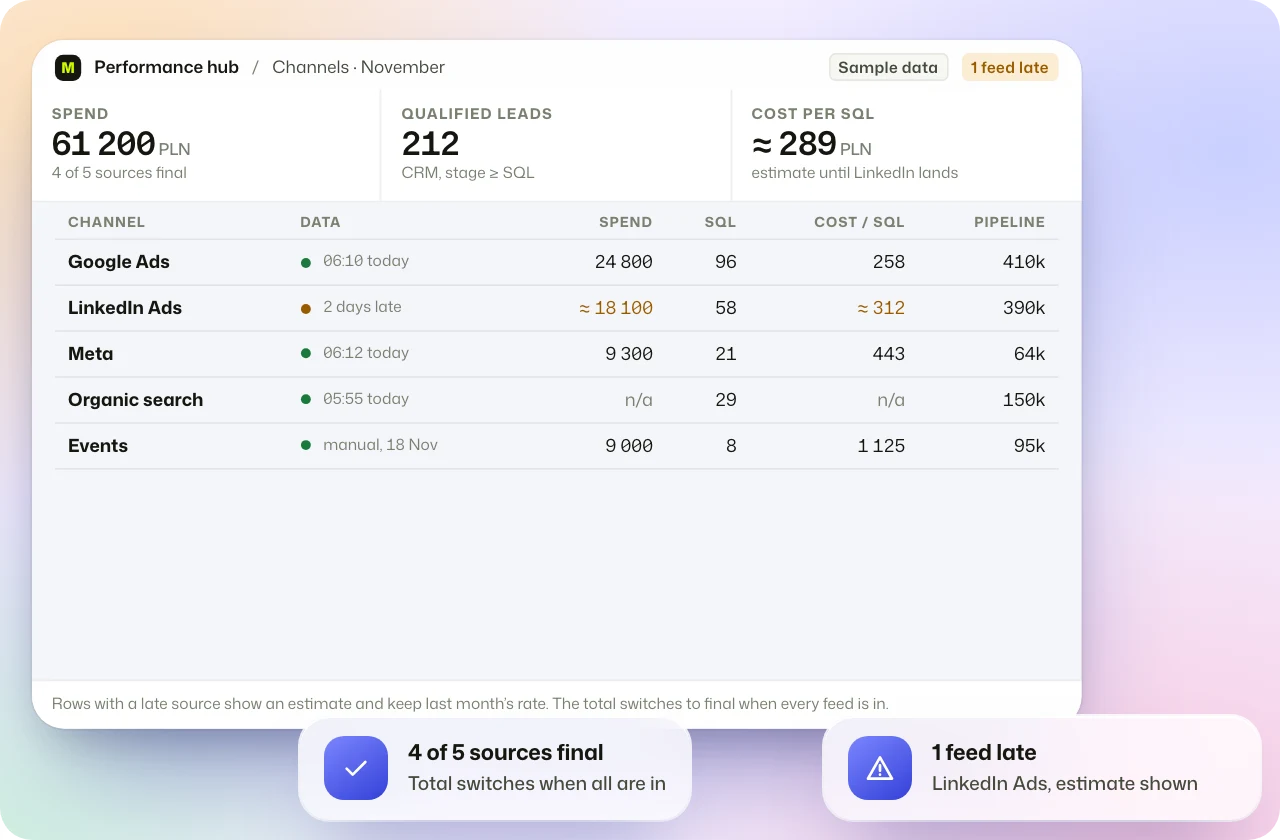
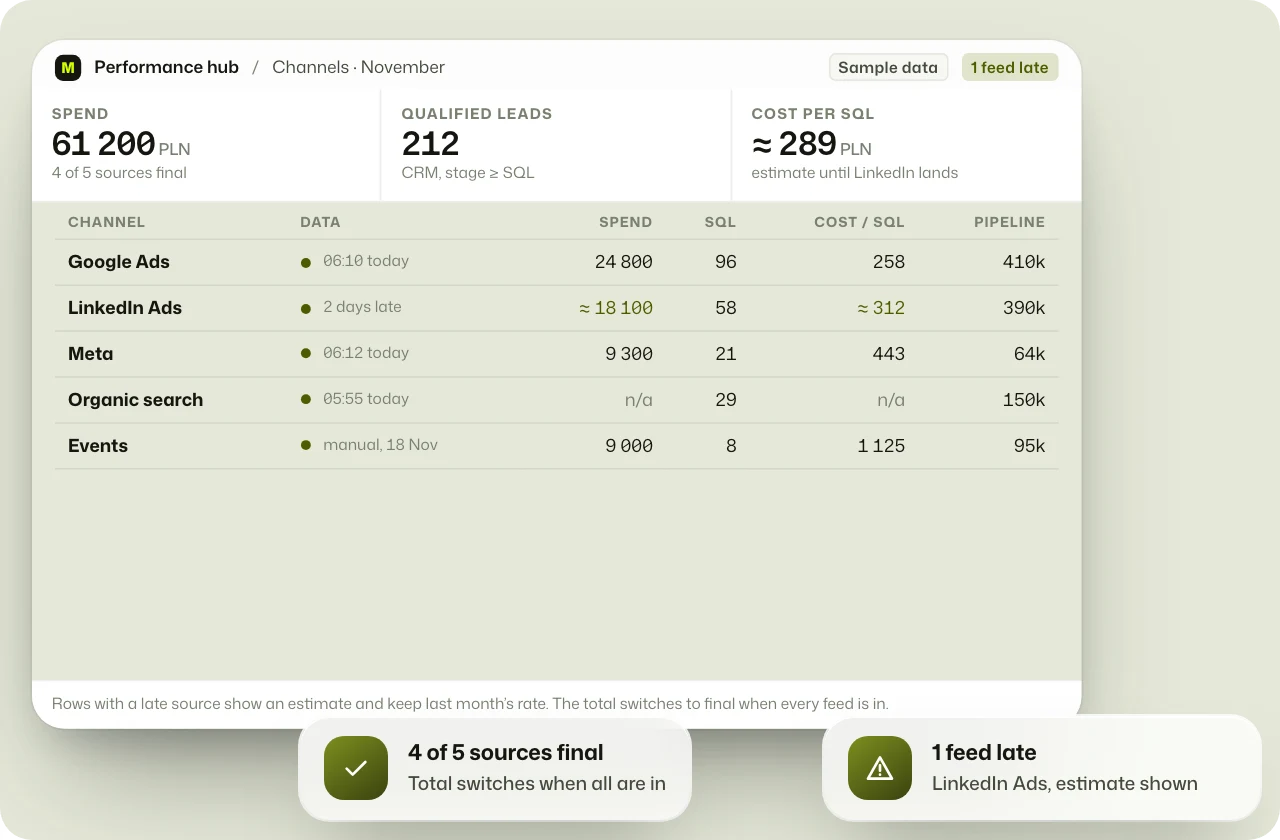
style(revolution): one palette on lens pages and flat grounds on app screens
Cream, olive and lime only. Navy, teal and green sections and the per-page
accents become the site olive family. Screens are re-rendered on a flat ground
with one accent, and the glass cards, ring and note colours follow.

diff --git a/public/revolution/assets/lens/marketing.css b/public/revolution/assets/lens/marketing.css
@@ -5,11 +5,11 @@
 .eyebrow.mk-e{display:block;margin-bottom:18px}
 
 /* point of view: lime, black type, one decision strip */
-.mk-pov{padding:clamp(64px,8vw,120px) 0;background:#D2FF00;color:#10200b;--on:16 32 11;--lt:#10200b}
-.mk-pov .eyebrow{display:block;margin-bottom:22px;color:#10200b}
+.mk-pov{padding:clamp(64px,8vw,120px) 0;background:#D2FF00;color:#1C1F16;--on:16 32 11;--lt:#1C1F16}
+.mk-pov .eyebrow{display:block;margin-bottom:22px;color:#1C1F16}
 .mk-pov q{display:block;quotes:none;max-width:16em;font:800 clamp(36px,6vw,92px)/.98 var(--sans);font-stretch:75%;text-transform:uppercase;letter-spacing:-.01em}
 .mk-pov__by{margin-top:22px;font:600 12px/1 var(--sans);letter-spacing:.06em;text-transform:uppercase;opacity:.7}
-.mk-dec{list-style:none;margin:clamp(36px,5vw,64px) 0 0;padding:0;display:grid;grid-template-columns:repeat(3,minmax(0,1fr));gap:0;border-top:2px solid #10200b}
+.mk-dec{list-style:none;margin:clamp(36px,5vw,64px) 0 0;padding:0;display:grid;grid-template-columns:repeat(3,minmax(0,1fr));gap:0;border-top:2px solid #1C1F16}
 .mk-dec li{padding:18px 22px 0 0;margin-right:22px;border-right:1px solid rgba(16,32,11,.28);font:500 16px/1.4 var(--sans)}
 .mk-dec li:last-child{border-right:0;margin-right:0}
 .mk-dec b{display:block;margin-bottom:6px;font:800 clamp(20px,2vw,28px)/1.05 var(--sans);font-stretch:75%;text-transform:uppercase}
@@ -17,7 +17,7 @@
 @media (max-width:900px){.mk-dec{grid-template-columns:1fr}.mk-dec li{border-right:0;margin:0;padding:16px 0;border-bottom:1px solid rgba(16,32,11,.28)}}
 
 /* what I build: a sticky list on the left, the work on the right */
-.mk-bd{padding:clamp(72px,9vw,128px) 0;background:#093f47;--on:244 244 237;--lt:#D2FF00;--lo:#C9E23A;color:#F4F4ED}
+.mk-bd{padding:clamp(72px,9vw,128px) 0;background:#282C20;--on:244 244 237;--lt:#D2FF00;--lo:#C9E23A;color:#F4F4ED}
 .mk-bd__g{display:grid;grid-template-columns:minmax(0,.7fr) minmax(0,1.3fr);gap:clamp(32px,6vw,96px);align-items:start}
 .mk-bd__l{position:sticky;top:96px}
 .mk-bd .eyebrow{display:block;margin-bottom:18px;color:#D2FF00}
@@ -40,35 +40,35 @@
 @media (max-width:900px){.mk-bd__g{grid-template-columns:1fr}.mk-bd__l{position:static}}
 
 /* case: five layers as a stack */
-.mk-cs{padding:clamp(72px,9vw,128px) 0;background:#F4F4ED;color:#103e44}
-.mk-cs .eyebrow{display:block;margin-bottom:18px;color:#0b5a64}
-.mk-cs h2{margin:0;max-width:14em;font-size:clamp(34px,4.4vw,64px);line-height:.95;color:#103e44}
+.mk-cs{padding:clamp(72px,9vw,128px) 0;background:#F4F4ED;color:#282C20}
+.mk-cs .eyebrow{display:block;margin-bottom:18px;color:#3B3C38}
+.mk-cs h2{margin:0;max-width:14em;font-size:clamp(34px,4.4vw,64px);line-height:.95;color:#282C20}
 .mk-cs__lede{max-width:34em;margin-top:18px;font:400 18px/1.5 var(--sans);color:rgba(16,62,68,.82)}
 .mk-cs__g{display:grid;grid-template-columns:minmax(0,1.25fr) minmax(0,.75fr);gap:clamp(28px,5vw,80px);margin-top:clamp(36px,5vw,64px);align-items:start}
 .mk-ly{list-style:none;margin:0;padding:0;display:grid;gap:8px}
-.mk-ly li{display:flex;align-items:baseline;gap:18px;padding:18px 22px;border-radius:12px;background:#0f5f69;color:#F4F4ED;margin-left:calc(var(--i)*clamp(0px,3.4vw,44px))}
-.mk-ly li:nth-child(odd){background:#0b4b54}
+.mk-ly li{display:flex;align-items:baseline;gap:18px;padding:18px 22px;border-radius:12px;background:#3B3C38;color:#F4F4ED;margin-left:calc(var(--i)*clamp(0px,3.4vw,44px))}
+.mk-ly li:nth-child(odd){background:#3B3C38}
 .mk-ly i{font:600 12px/1 var(--sans);font-style:normal;letter-spacing:.06em;color:#D2FF00}
 .mk-ly b{font:800 clamp(20px,2vw,28px)/1.05 var(--sans);font-stretch:75%;text-transform:uppercase;min-width:6.5em}
 .mk-ly span{font:400 15px/1.4 var(--sans);opacity:.86}
 .mk-nums{margin:0;display:grid;gap:0}
 .mk-nums div{padding:18px 0;border-top:1px solid rgba(16,62,68,.24)}
 .mk-nums div:last-child{border-bottom:1px solid rgba(16,62,68,.24)}
-.mk-nums dd{margin:0;font:800 clamp(48px,6vw,92px)/.9 var(--sans);font-stretch:75%;color:#0b5a64}
+.mk-nums dd{margin:0;font:800 clamp(48px,6vw,92px)/.9 var(--sans);font-stretch:75%;color:#3B3C38}
 .mk-nums dt{margin-top:6px;font:500 14px/1.3 var(--sans);color:rgba(16,62,68,.8)}
 .mk-pr{display:grid;grid-template-columns:repeat(3,minmax(0,1fr));gap:clamp(24px,4vw,56px);margin:clamp(40px,5vw,72px) 0 0}
-.mk-pr dt{font:600 12px/1.3 var(--sans);letter-spacing:.06em;text-transform:uppercase;color:#0b5a64;padding-top:14px;border-top:2px solid #103e44}
+.mk-pr dt{font:600 12px/1.3 var(--sans);letter-spacing:.06em;text-transform:uppercase;color:#3B3C38;padding-top:14px;border-top:2px solid #282C20}
 .mk-pr dd{margin:10px 0 0;font:400 16px/1.55 var(--sans);color:rgba(16,62,68,.88)}
-.mk-ho{margin:28px 0 0;font:500 15px/1.5 var(--sans);color:#103e44;max-width:52em}
-.mk-ho b{font:600 12px/1 var(--sans);letter-spacing:.06em;text-transform:uppercase;color:#0b5a64;margin-right:10px}
+.mk-ho{margin:28px 0 0;font:500 15px/1.5 var(--sans);color:#282C20;max-width:52em}
+.mk-ho b{font:600 12px/1 var(--sans);letter-spacing:.06em;text-transform:uppercase;color:#3B3C38;margin-right:10px}
 .mk-shots{display:grid;grid-template-columns:repeat(3,minmax(0,1fr));gap:clamp(16px,2.4vw,32px);margin-top:clamp(36px,5vw,64px)}
-.mk-shots a{display:block;color:#103e44;text-decoration:none}
+.mk-shots a{display:block;color:#282C20;text-decoration:none}
 .mk-shots img{display:block;width:100%;height:auto;border-radius:12px;box-shadow:0 22px 40px -22px rgba(16,62,68,.5)}
 .mk-shots span{display:block;margin-top:12px;font:600 13px/1.3 var(--sans)}
 @media (max-width:900px){.mk-cs__g,.mk-pr,.mk-shots{grid-template-columns:1fr}.mk-ly li{flex-wrap:wrap;gap:6px 14px;margin-left:calc(var(--i)*8px)}.mk-ly b{min-width:0}}
 
 /* tools strip: scrolls sideways */
-.mk-tools{padding:clamp(64px,8vw,112px) 0;background:#0d1417;--on:244 244 237;--lt:#D2FF00;color:#F4F4ED}
+.mk-tools{padding:clamp(64px,8vw,112px) 0;background:#1C1F16;--on:244 244 237;--lt:#D2FF00;color:#F4F4ED}
 .mk-tools .eyebrow{display:block;margin-bottom:18px;color:#D2FF00}
 .mk-tools h2{margin:0;font-size:clamp(34px,4.4vw,64px);line-height:.95}
 .mk-strip{display:flex;gap:clamp(16px,2vw,28px);margin-top:clamp(32px,4vw,56px);padding:0 max(var(--gut,24px),calc(50% - 620px)) 18px;overflow-x:auto;scroll-snap-type:x mandatory;scrollbar-width:thin}
@@ -79,21 +79,21 @@
 .mk-strip em{display:inline-block;margin-top:9px;font:600 12px/1 var(--sans);font-style:normal;letter-spacing:.06em;text-transform:uppercase;color:#D2FF00}
 
 /* questions */
-.mk-fq{padding:clamp(72px,9vw,128px) 0;background:#F4F4ED;color:#103e44}
-.mk-fq .eyebrow{display:block;margin-bottom:18px;color:#0b5a64}
-.mk-fq h2{margin:0;font-size:clamp(36px,4.6vw,68px);line-height:.95;color:#103e44}
-.mk-fq h2 span{display:block;color:#0b5a64}
+.mk-fq{padding:clamp(72px,9vw,128px) 0;background:#F4F4ED;color:#282C20}
+.mk-fq .eyebrow{display:block;margin-bottom:18px;color:#3B3C38}
+.mk-fq h2{margin:0;font-size:clamp(36px,4.6vw,68px);line-height:.95;color:#282C20}
+.mk-fq h2 span{display:block;color:#3B3C38}
 .mk-fq__g{display:grid;grid-template-columns:minmax(0,1.2fr) minmax(0,.8fr);gap:clamp(32px,6vw,96px);margin-top:clamp(32px,4vw,56px);align-items:start}
 .mk-fq details{border-top:1px solid rgba(16,62,68,.24);padding:24px 0}
 .mk-fq details:last-child{border-bottom:1px solid rgba(16,62,68,.24)}
-.mk-fq summary{display:flex;justify-content:space-between;align-items:center;gap:16px;font:600 clamp(18px,1.8vw,26px)/1.3 var(--sans);color:#103e44;cursor:pointer;list-style:none}
+.mk-fq summary{display:flex;justify-content:space-between;align-items:center;gap:16px;font:600 clamp(18px,1.8vw,26px)/1.3 var(--sans);color:#282C20;cursor:pointer;list-style:none}
 .mk-fq summary::-webkit-details-marker{display:none}
-.mk-fq summary i{flex:none;display:grid;place-items:center;width:34px;height:34px;border-radius:50%;background:#103e44;color:#D2FF00;font:600 16px/1 var(--sans);font-style:normal;transition:transform .3s}
+.mk-fq summary i{flex:none;display:grid;place-items:center;width:34px;height:34px;border-radius:50%;background:#282C20;color:#D2FF00;font:600 16px/1 var(--sans);font-style:normal;transition:transform .3s}
 .mk-fq details[open] summary i{transform:rotate(45deg)}
 .mk-fq p{margin:14px 0 0;max-width:42em;font:400 17px/1.55 var(--sans);color:rgba(16,62,68,.86)}
 .mk-fq figure{margin:0}
 .mk-fq figure img{display:block;width:100%;height:auto;aspect-ratio:4/3;object-fit:cover;border-radius:12px}
-.mk-fq figcaption{display:flex;align-items:center;justify-content:space-between;gap:12px;margin-top:14px;font:600 14px/1.3 var(--sans);color:#103e44}
+.mk-fq figcaption{display:flex;align-items:center;justify-content:space-between;gap:12px;margin-top:14px;font:600 14px/1.3 var(--sans);color:#282C20}
 .mk-fq small{display:block;font:400 13px/1.3 var(--sans);opacity:.7}
 @media (max-width:900px){.mk-fq__g{grid-template-columns:1fr}}
 @media (prefers-reduced-motion:reduce){.mk-ui{animation:none}}

diff --git a/public/revolution/assets/lens/growth.css b/public/revolution/assets/lens/growth.css
@@ -4,7 +4,7 @@
 .gr-sheet{position:relative;border-radius:clamp(22px,3vw,44px) clamp(22px,3vw,44px) 0 0;margin-top:calc(-1*clamp(22px,3vw,44px));z-index:6}
 
 /* point of view: three words, one under the other */
-.gr-pov{padding:clamp(64px,8vw,120px) 0;background:#073a1b;color:#F4F4ED}
+.gr-pov{padding:clamp(64px,8vw,120px) 0;background:#282C20;color:#F4F4ED}
 .gr-pov .eyebrow{display:block;margin-bottom:22px;color:#D2FF00}
 .gr-pov p{margin:0;font:500 clamp(18px,1.6vw,24px)/1.4 var(--serif);max-width:26em;opacity:.9}
 .gr-pov ol{list-style:none;margin:clamp(28px,4vw,52px) 0 0;padding:0}
@@ -16,32 +16,32 @@
 @media (max-width:900px){.gr-pov li:nth-child(n){padding-left:0}}
 
 /* the loop */
-.gr-lp{padding:clamp(72px,9vw,128px) 0 clamp(40px,5vw,72px);background:#F4F4ED;color:#0e2a18}
-.gr-lp .eyebrow{display:block;margin-bottom:18px;color:#1f6a3a}
-.gr-lp h2{margin:0;font-size:clamp(40px,5.4vw,80px);line-height:.95;color:#0e2a18}
-.gr-lp h2 span{display:block;color:#1f6a3a}
+.gr-lp{padding:clamp(72px,9vw,128px) 0 clamp(40px,5vw,72px);background:#F4F4ED;color:#1C1F16}
+.gr-lp .eyebrow{display:block;margin-bottom:18px;color:#3B3C38}
+.gr-lp h2{margin:0;font-size:clamp(40px,5.4vw,80px);line-height:.95;color:#1C1F16}
+.gr-lp h2 span{display:block;color:#3B3C38}
 .gr-loop{list-style:none;margin:clamp(36px,5vw,64px) 0 0;padding:0 0 46px;display:grid;grid-template-columns:repeat(4,minmax(0,1fr));gap:0;position:relative;counter-reset:l}
-.gr-loop::after{content:"";position:absolute;left:12.5%;right:12.5%;bottom:0;height:34px;border:1.5px solid #0e2a18;border-top:0;border-radius:0 0 22px 22px}
-.gr-loop::before{content:"";position:absolute;left:12.5%;bottom:-5px;border:6px solid transparent;border-bottom:8px solid #0e2a18;border-top:0;transform:translateY(-2px)}
-.gr-loop li{padding:22px 24px 0 0;border-top:2px solid #0e2a18;margin-right:22px}
+.gr-loop::after{content:"";position:absolute;left:12.5%;right:12.5%;bottom:0;height:34px;border:1.5px solid #1C1F16;border-top:0;border-radius:0 0 22px 22px}
+.gr-loop::before{content:"";position:absolute;left:12.5%;bottom:-5px;border:6px solid transparent;border-bottom:8px solid #1C1F16;border-top:0;transform:translateY(-2px)}
+.gr-loop li{padding:22px 24px 0 0;border-top:2px solid #1C1F16;margin-right:22px}
 .gr-loop li:last-child{margin-right:0}
-.gr-loop i{display:block;font:600 12px/1 var(--sans);font-style:normal;letter-spacing:.06em;color:#1f6a3a}
-.gr-loop b{display:block;margin-top:10px;font:800 clamp(22px,2.4vw,34px)/1 var(--sans);font-stretch:75%;text-transform:uppercase;color:#0e2a18}
+.gr-loop i{display:block;font:600 12px/1 var(--sans);font-style:normal;letter-spacing:.06em;color:#3B3C38}
+.gr-loop b{display:block;margin-top:10px;font:800 clamp(22px,2.4vw,34px)/1 var(--sans);font-stretch:75%;text-transform:uppercase;color:#1C1F16}
 .gr-loop span{display:block;margin-top:8px;font:400 15px/1.4 var(--sans);color:rgba(14,42,24,.8)}
 @media (max-width:900px){.gr-loop{grid-template-columns:1fr;padding-bottom:0}.gr-loop::after,.gr-loop::before{display:none}.gr-loop li{margin:0 0 6px;padding-bottom:16px}}
 
 /* rows: screen and text, side by side, alternating */
-.gr-rw{padding:clamp(24px,3vw,48px) 0 clamp(72px,9vw,128px);background:#F4F4ED;color:#0e2a18}
+.gr-rw{padding:clamp(24px,3vw,48px) 0 clamp(72px,9vw,128px);background:#F4F4ED;color:#1C1F16}
 .gr-row{display:grid;grid-template-columns:minmax(0,1.1fr) minmax(0,.9fr);gap:clamp(28px,5vw,80px);align-items:center;padding:clamp(32px,4vw,64px) 0;border-top:1px solid rgba(14,42,24,.2)}
 .gr-row:nth-child(even){grid-template-columns:minmax(0,.9fr) minmax(0,1.1fr)}
 .gr-row:nth-child(even) .gr-row__s{order:2}
 .gr-row__s{display:block;color:inherit;text-decoration:none}
 .gr-row__s img{display:block;width:100%;height:auto;border-radius:12px;box-shadow:0 26px 48px -24px rgba(7,58,27,.55)}
-.gr-row__s span{display:block;margin-top:12px;font:600 13px/1.3 var(--sans);color:#1f6a3a}
-.gr-row__n{font:500 clamp(60px,7vw,110px)/.8 var(--serif);color:#1f6a3a}
-.gr-row h3{margin:14px 0 0;font:800 clamp(28px,3.2vw,46px)/1 var(--sans);font-stretch:75%;text-transform:uppercase;color:#0e2a18}
+.gr-row__s span{display:block;margin-top:12px;font:600 13px/1.3 var(--sans);color:#3B3C38}
+.gr-row__n{font:500 clamp(60px,7vw,110px)/.8 var(--serif);color:#3B3C38}
+.gr-row h3{margin:14px 0 0;font:800 clamp(28px,3.2vw,46px)/1 var(--sans);font-stretch:75%;text-transform:uppercase;color:#1C1F16}
 .gr-row p{margin:14px 0 0;max-width:30em;font:400 18px/1.5 var(--sans);color:rgba(14,42,24,.84)}
-.gr-row ul{list-style:none;margin:20px 0 0;padding:0;font:500 15px/1.4 var(--sans);color:#0e2a18}
+.gr-row ul{list-style:none;margin:20px 0 0;padding:0;font:500 15px/1.4 var(--sans);color:#1C1F16}
 .gr-row li{padding:10px 0;border-top:1px solid rgba(14,42,24,.18)}
 .gr-row li:last-child{border-bottom:1px solid rgba(14,42,24,.18)}
 .gr-tl{display:flex;flex-wrap:wrap;gap:6px 14px;margin-top:16px;font:500 13px/1.3 var(--sans);color:rgba(14,42,24,.72)}
@@ -49,7 +49,7 @@
 @media (max-width:900px){.gr-row,.gr-row:nth-child(even){grid-template-columns:1fr}.gr-row:nth-child(even) .gr-row__s{order:0}}
 
 /* case: before and after as two bars */
-.gr-cs{padding:clamp(72px,9vw,128px) 0;background:#0b3d21;color:#F4F4ED}
+.gr-cs{padding:clamp(72px,9vw,128px) 0;background:#282C20;color:#F4F4ED}
 .gr-cs .eyebrow{display:block;margin-bottom:18px;color:#D2FF00}
 .gr-cs h2{margin:0;max-width:14em;font-size:clamp(34px,4.4vw,64px);line-height:.95}
 .gr-cs__lede{max-width:34em;margin-top:18px;font:400 18px/1.5 var(--sans);opacity:.85}
@@ -73,7 +73,7 @@
 @media (max-width:900px){.gr-bars>div{grid-template-columns:1fr 70px}.gr-bars dt{grid-column:1/-1}.gr-kp,.gr-pr{grid-template-columns:1fr}}
 
 /* questions */
-.gr-fq{padding:clamp(72px,9vw,128px) 0;background:#073a1b;color:#F4F4ED}
+.gr-fq{padding:clamp(72px,9vw,128px) 0;background:#282C20;color:#F4F4ED}
 .gr-fq__g{display:grid;grid-template-columns:minmax(0,1.1fr) minmax(0,.9fr);gap:clamp(32px,6vw,96px);align-items:center}
 .gr-fq .eyebrow{display:block;margin-bottom:18px;color:#D2FF00}
 .gr-fq h2{margin:0 0 28px;font-size:clamp(36px,4.6vw,68px);line-height:.95}
@@ -82,7 +82,7 @@
 .gr-fq details:last-of-type{border-bottom:1px solid rgb(244 244 237/.22)}
 .gr-fq summary{display:flex;justify-content:space-between;align-items:center;gap:16px;font:600 clamp(18px,1.6vw,23px)/1.3 var(--sans);cursor:pointer;list-style:none}
 .gr-fq summary::-webkit-details-marker{display:none}
-.gr-fq summary i{flex:none;display:grid;place-items:center;width:34px;height:34px;border-radius:50%;background:#D2FF00;color:#073a1b;font:600 16px/1 var(--sans);font-style:normal;transition:transform .3s}
+.gr-fq summary i{flex:none;display:grid;place-items:center;width:34px;height:34px;border-radius:50%;background:#D2FF00;color:#282C20;font:600 16px/1 var(--sans);font-style:normal;transition:transform .3s}
 .gr-fq details[open] summary i{transform:rotate(45deg)}
 .gr-fq p{margin:14px 0 0;max-width:40em;font:400 16px/1.55 var(--sans);opacity:.88}
 .gr-fq figure{margin:0}

diff --git a/public/revolution/assets/motion/motion.css b/public/revolution/assets/motion/motion.css
@@ -33,10 +33,10 @@ html.m-on [data-m="barv"].m-in{animation:m-barv 1.1s var(--m-ease) backwards;ani
 /* ---- app screen with glass cards: depth, then the cards in sequence ----
    <figure data-m="depth"><div class="m-stage"><img class="m-screen"><img class="m-card" style="--x;--y;--w;--r;--z;--i">...</div></figure>
    JS writes --mx, --my (pointer, -1..1) and --ms (scroll, -1..1) on the figure. Without JS the layers sit exactly where the flat picture had them. */
-.m-stage{position:relative;container-type:inline-size;--m-ring:var(--ac,#2a35c9);--m-fill:rgb(42 53 201/.07)}
+.m-stage{position:relative;container-type:inline-size;--m-ring:var(--ac,#3A4210);--m-fill:rgb(58 66 16/.07)}
 .m-stage .m-screen{display:block;width:100%;height:auto;transform:translate3d(calc(var(--mx,0)*-5px),calc(var(--my,0)*-3px + var(--ms,0)*-9px),0)}
 .m-stage .m-card{position:absolute;left:var(--x);top:var(--y);width:var(--w);height:auto;max-width:none;border-radius:var(--r,15px);
-  box-shadow:0 22px 40px -16px rgb(30 40 130/.5),0 0 0 1px rgb(255 255 255/.85);pointer-events:none;
+  box-shadow:0 22px 40px -16px rgb(40 44 32/.38),0 0 0 1px rgb(255 255 255/.85);pointer-events:none;
   transform:translate3d(calc(var(--mx,0)*var(--z,1)*8px),calc(var(--my,0)*var(--z,1)*6px + var(--ms,0)*var(--z,1)*-22px),0)}
 html.m-on [data-m="depth"]:not(.m-in) .m-screen,
 html.m-on [data-m="depth"]:not(.m-in) .m-card{opacity:0}
@@ -50,14 +50,14 @@ html.m-on [data-m="depth"].m-in .m-card{animation:m-card .9s var(--m-ease) backw
 /* ---- hot spots on a screen: hover, focus or tap shows a note ---- */
 .m-hot{display:none;position:absolute;left:var(--x);top:var(--y);width:var(--w);height:var(--h);margin:0;padding:0;border:0;border-radius:var(--g-r-card,12px);background:transparent;cursor:pointer;-webkit-tap-highlight-color:transparent;color:inherit;font:inherit}
 html.m-js .m-hot{display:block}
-.m-hot::before{content:"";position:absolute;inset:-3px;border-radius:inherit;background:var(--m-fill);box-shadow:0 0 0 var(--g-line,1px) var(--m-ring),0 0 0 4px rgb(42 53 201/.12);opacity:0;scale:.97;transition:opacity .35s var(--m-ease),scale .45s var(--m-ease)}
+.m-hot::before{content:"";position:absolute;inset:-3px;border-radius:inherit;background:var(--m-fill);box-shadow:0 0 0 var(--g-line,1px) var(--m-ring),0 0 0 4px rgb(58 66 16/.14);opacity:0;scale:.97;transition:opacity .35s var(--m-ease),scale .45s var(--m-ease)}
 .m-hot::after{content:"";position:absolute;inset:-6px}
 .m-hot.is-on::before{opacity:1;scale:1}
 .m-hot:focus{outline:0}
 .m-hot:focus-visible::before{opacity:1;scale:1;box-shadow:0 0 0 2px var(--m-ring),0 0 0 5px rgb(255 255 255/.8)}
-.m-stage[data-m-skin="amber"]{--m-fill:linear-gradient(180deg,rgb(232 163 23/0),rgb(232 163 23/.18));--m-ring:transparent}
+.m-stage[data-m-skin="amber"]{--m-fill:linear-gradient(180deg,rgb(210 255 0/0),rgb(210 255 0/.28));--m-ring:transparent}
 .m-stage[data-m-skin="amber"] .m-hot::before{box-shadow:none}
-.m-stage[data-m-skin="amber"] .m-hot:focus-visible::before{box-shadow:0 0 0 2px #B77700}
+.m-stage[data-m-skin="amber"] .m-hot:focus-visible::before{box-shadow:0 0 0 2px #4D5C00}
 
 .m-tip{position:absolute;left:0;top:0;z-index:3;display:block;width:max-content;max-width:62%;padding:9px 12px 10px;border-radius:11px;background:var(--m-ink);color:#F4F4ED;pointer-events:none;
   box-shadow:0 14px 28px -10px rgb(14 17 32/.55);opacity:0;translate:0 6px;transition:opacity .3s var(--m-ease),translate .4s var(--m-ease)}

diff --git a/public/revolution/assets/lens/hero.css b/public/revolution/assets/lens/hero.css
@@ -1,7 +1,7 @@
 /* Lens hero, shared by GTM, Marketing and Growth. A tool screen is the picture; the person is a small avatar by the byline.
    Sizes come from the g22 tokens, no values of its own for type, radius, line or tap height. */
 .lh{--on:244 244 237;--lt:#D2FF00;--lo:#C9E23A;position:relative;overflow:hidden;isolation:isolate;display:flex;align-items:center;min-height:min(100svh,880px);padding:clamp(92px,12vh,132px) 0 clamp(56px,8vh,96px);color:rgb(244 244 237)}
-.lh--gtm{background:#141c6e}.lh--mk{background:#0f5f69}.lh--gr{background:#0f6b32}
+.lh--gtm{background:#282C20}.lh--mk{background:#3B3C38}.lh--gr{background:#3B3C38}
 .lh__bg{position:absolute;inset:0;z-index:0;background:center/cover no-repeat}
 .lh--gtm .lh__bg{background-image:url(bg-gt.60583475.svg)}
 .lh--mk .lh__bg{background-image:url(bg-mk.01568a6c.svg)}
@@ -23,18 +23,18 @@
 }
 /* the one small portrait on each lens page, by the byline */
 .lh-by{display:flex;align-items:center;gap:14px;margin:22px 0 0}
-.lh-av{flex:none;width:56px;height:56px;border-radius:50%;object-fit:cover;object-position:50% 6%;background:#1a2480;box-shadow:0 0 0 var(--g-line,1px) var(--g-line-on,rgb(244 244 237/.28))}
-.mk-pov .lh-av{background:#0f5f69}
-.gr-pov .lh-av{background:#0f6b32}
+.lh-av{flex:none;width:56px;height:56px;border-radius:50%;object-fit:cover;object-position:50% 6%;background:#282C20;box-shadow:0 0 0 var(--g-line,1px) var(--g-line-on,rgb(244 244 237/.28))}
+.mk-pov .lh-av{background:#3B3C38}
+.gr-pov .lh-av{background:#3B3C38}
 .lh-av{opacity:1;filter:none;mix-blend-mode:normal}
 .gr-pov .lh-by{font:600 var(--g-txt-min,12px)/1 var(--sans);letter-spacing:.06em;text-transform:uppercase;opacity:1}
 .gr-pov .lh-by span{opacity:.8}
 
 /* light ground: cream, ink type, one accent colour per page */
 .lh{--on:20 22 18;--ink:#141612;color:#141612}
-.lh--gtm{background:#F4F4ED;--ac:#2a35c9}
-.lh--mk{background:#F4F4ED;--ac:#0f6b76}
-.lh--gr{background:#F4F4ED;--ac:#0f7a3a}
+.lh--gtm{background:#F4F4ED;--ac:#4D5C00}
+.lh--mk{background:#F4F4ED;--ac:#4D5C00}
+.lh--gr{background:#F4F4ED;--ac:#4D5C00}
 .lh__bg{display:none}
 .lh .eyebrow{color:var(--ac)}
 .lh h1 span{color:var(--ac)}

diff --git a/public/revolution/assets/lens/gtm.css b/public/revolution/assets/lens/gtm.css
@@ -6,13 +6,13 @@
 .gt-hero .eyebrow,.gt-rail .eyebrow,.gt-cs .eyebrow,.gt-ap .eyebrow{display:block;margin-bottom:18px;color:var(--lt,#D2FF00)}
 
 /* the rail: six stages, a signal runs along the line */
-.gt-rail{background:#111860;padding:clamp(72px,9vw,128px) 0}
+.gt-rail{background:#282C20;padding:clamp(72px,9vw,128px) 0}
 .gt-st{list-style:none;margin:56px 0 0;padding:0;display:grid;grid-template-columns:repeat(6,minmax(0,1fr));position:relative}
 .gt-st::before{content:"";position:absolute;left:0;right:0;top:9px;height:1px;background:rgb(244 244 237/.22)}
 .gt-st::after{content:"";position:absolute;top:5px;left:0;width:9px;height:9px;border-radius:50%;background:#D2FF00;box-shadow:0 0 0 6px rgb(210 255 0/.16);animation:gt-run 9s linear infinite}
 @keyframes gt-run{from{left:0}to{left:calc(100% - 9px)}}
 .gt-st li{position:relative;padding:44px 18px 0 0}
-.gt-st li::before{content:"";position:absolute;top:0;left:0;width:19px;height:19px;border-radius:50%;border:1px solid #D2FF00;background:#111860}
+.gt-st li::before{content:"";position:absolute;top:0;left:0;width:19px;height:19px;border-radius:50%;border:1px solid #D2FF00;background:#282C20}
 .gt-st li:last-child::before{background:#D2FF00}
 .gt-st i{display:block;font:600 12px/1 var(--sans);font-style:normal;letter-spacing:.06em;color:rgb(244 244 237/.55)}
 .gt-st b{display:block;margin-top:10px;font:800 clamp(20px,2vw,28px)/1 var(--sans);font-stretch:75%;text-transform:uppercase;letter-spacing:-.01em}
@@ -83,7 +83,7 @@
 }
 
 /* apps behind it: three whole screens on a staircase */
-.gt-ap{padding:clamp(72px,9vw,128px) 0;background:#0d0f0a}
+.gt-ap{padding:clamp(72px,9vw,128px) 0;background:#1C1F16}
 html[data-mode="light"] .gt-ap{background:var(--sf2,#E5E8D9)}
 .gt-ap h2{margin:0;font-size:clamp(36px,4.6vw,68px);line-height:.95}
 .gt-ap__g{display:grid;grid-template-columns:repeat(3,minmax(0,1fr));gap:clamp(20px,3vw,48px);margin-top:clamp(40px,5vw,72px);align-items:start}
